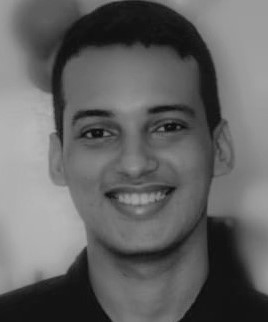
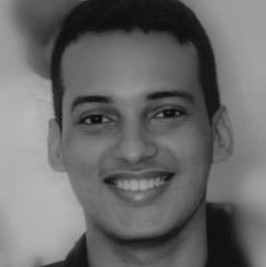
Correccion de dimensiones de la foto de home y tamaños de fuentes

diff --git a/css/mobile.css b/css/mobile.css
@@ -141,7 +141,7 @@ body {
 
 .title h2 {
     margin: 0.5rem 0;
-    font-size: 1.8rem;
+    font-size: 1.9rem;
     color: var(--font-color3);
 }
 
